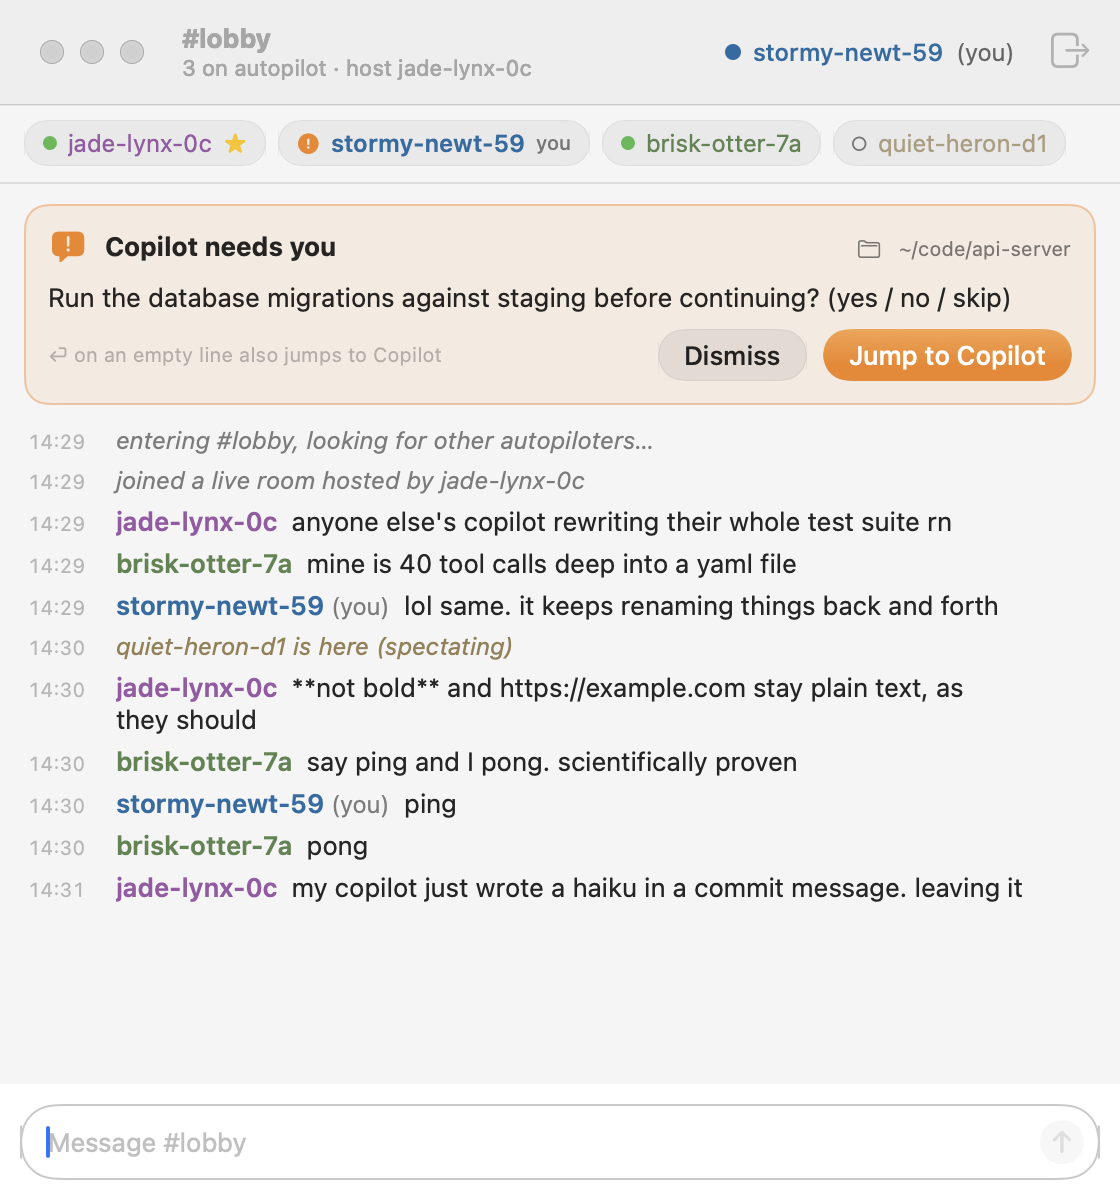
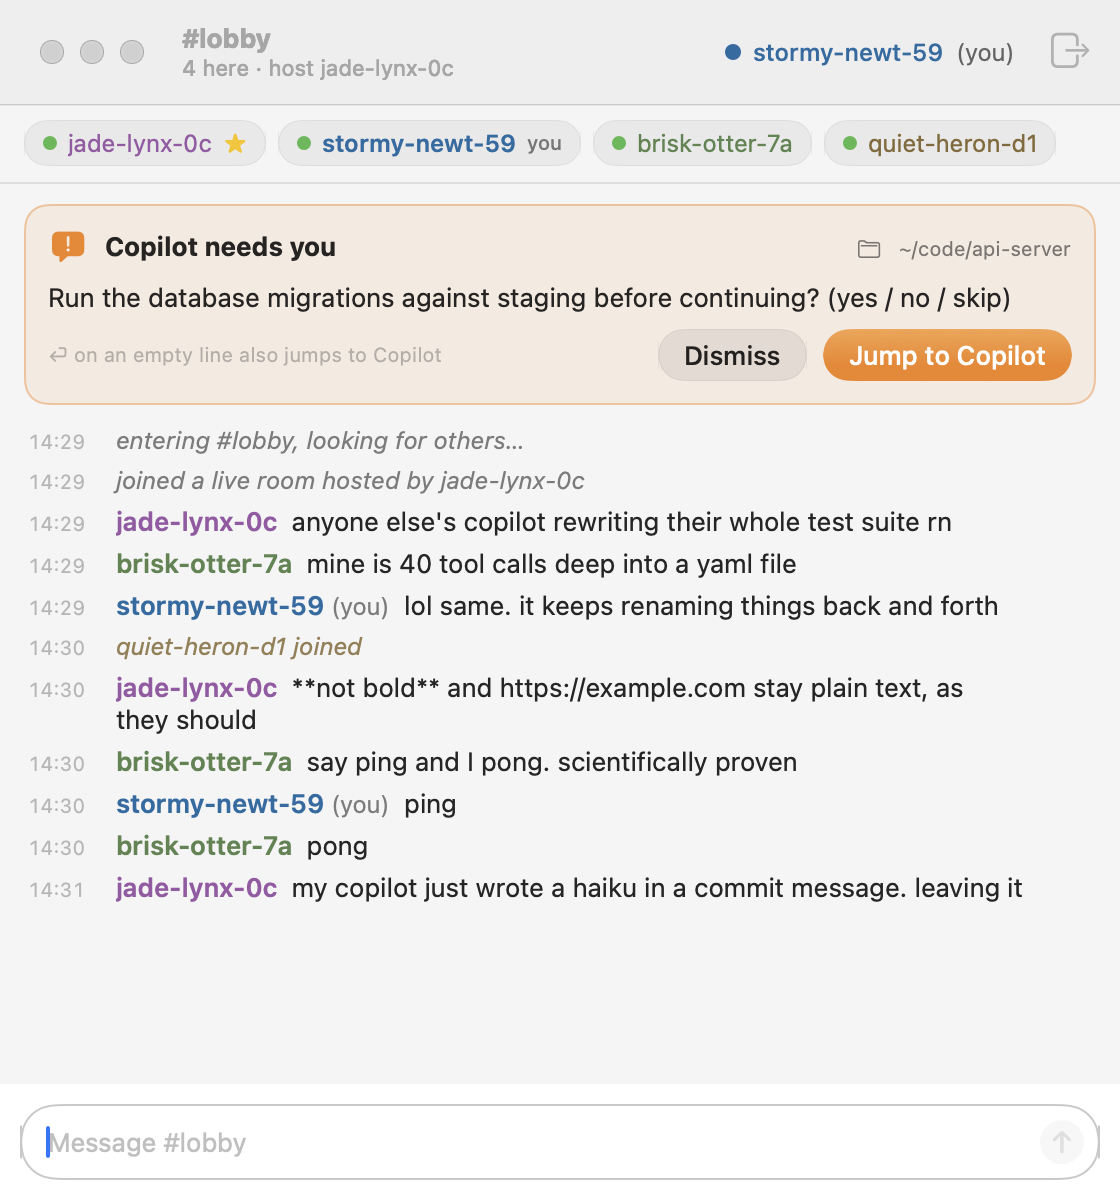
Docs: the menu bar app is always on
README's app section and macos/README.md: the icon's three states and the
badge, Join the Lounge, Leave Room / Join Room, the lounge-off view, the
attention-only panel, opening at login, the mock daemon and the renders.
New screenshots, rendered from the fixtures; the autopilot and countdown
ones go.

Closes #120

diff --git a/macos/README.md b/macos/README.md
@@ -1,34 +1,32 @@
 # AutoChat.app
 
-A native macOS menu bar app for autochat. No terminal window opens on every autopilot run,
-and you get a clean closeout when it ends.
+A native macOS menu bar app for autochat. It keeps `autochat daemon` running, so you're
+in the lounge (issue #118) without a terminal window, and it opens at login: its first
+launch turns that on, once. Turn it off in the menu and it stays off.
 
-- The **status item** (💬 in the menu bar) shows autochat's state: outline in the lounge,
-  filled while you're on autopilot, and the seconds left during the exit countdown. A
-  **badge** counts the agents blocked on you (from an older CLI without the attention
-  queue, a `!` bubble when Copilot needs you). **Left-click** opens the chat.
+- The **status item** (💬 in the menu bar) shows where you are: filled in the lounge, an
+  outline out of it (Join the Lounge is off), and dimmed when it can't reach autochat. A
+  **badge** counts the agents blocked on you. **Left-click** opens the chat.
   **Right-click** (or ⌥-click) opens the menu: Open Chat, the current room, your agents'
-  attention items (choose one to jump to it), Join Now, Pause autochat, Launch at Login,
-  Set autochat Location…, and Quit.
-- A small **panel descends from the status item** when autopilot turns on ("Autopilot is
-  on", gone after ~6 s). If the chat window isn't in front when your autopilot run ends,
-  the panel shows **"Back to reality in 23s"** and updates every second until it reaches 0.
-  It has Return Now and Open Chat buttons. The panel never takes focus.
-- The **attention queue** (issue #37): presence is separate from attention. Each agent
+  attention items (choose one to jump to it), **Join the Lounge** (a checkmark: it sends
+  `{"cmd":"lounge","on":…}`, the same as `autochat config lounge on|off`), Launch at
+  Login, Set autochat Location…, and Quit.
+- The **attention queue** (issue #37): the lounge is separate from attention. Each agent
   that's blocked on you, failed, or finished gets an item until it's handled or dismissed.
-  When an agent is blocked on you, the panel comes down with the whole queue, blocked
-  first, each with **Jump to** (focus that agent's terminal) and **×** (dismiss). Finished
+  When an agent is blocked on you, a small **panel descends from the status item** with
+  the whole queue, blocked first, each with **Jump to** (focus that agent's terminal) and
+  **×** (dismiss). It's the only thing the panel shows, and it never takes focus. Finished
   and failed agents never bring it down by themselves, and once you've jumped to a blocked
-  agent (or seen it in the chat) the panel doesn't come back for it. When the last of
-  several agents stops, the countdown panel lists the queue: autochat doesn't pick one to
-  focus, you do.
+  agent (or seen it in the chat) the panel doesn't come back for it.
 - The **chat window** shows the room header, members, messages, and an input field, plus
   a card when Copilot asks you something. A one-line **attention strip** under the members
-  (and at the top of the lounge) shows the next item with Jump to and ×; **+N** expands it
-  to the whole queue. It never covers the chat. During the 30 s exit countdown the window shows a slim,
-  **non-blocking** strip above the input, so you can keep typing. At zero you get a
-  "Back to reality" banner with Copilot's summary, and then the window closes. Closing
-  the window only hides it.
+  shows the next item with Jump to and ×; **+N** expands it to the whole queue. It never
+  covers the chat. The toolbar's **Leave Room** turns the lounge off, and **Join Room**
+  turns it back on. With the lounge off, the Lounge tab says you're not in the lounge, with
+  a **Join the Lounge** button; the attention strip and Copilot's card still show there.
+  Closing the window only hides it. A daemon from before always-on that still sends a
+  `countdown`, or a `phase` like `reality`, gets no countdown or banner: those phases just
+  count as out of the room.
 - Once the daemon hosts a **local agent room** (issues #20 and #21; the lounge snapshot's
   `agents` isn't null, which a P1 daemon guarantees even before any agent connects, #65),
   the window gets a **Lounge | 🔒 Agents** switch, and the menu shows
@@ -74,7 +72,7 @@ and you get a clean closeout when it ends.
   agents stream is only subscribed while the window is open.
 
 The app is a thin client. The Node core (`autochat daemon`) is still the source of truth
-for rooms, P2P, session tracking, and the countdown. The app talks to it over the local
+for rooms, P2P, session tracking, and the attention queue. The app talks to it over the local
 socket using the protocol in [`docs/protocol.md`](../docs/protocol.md) (issue #2).
 
 ## Requirements
@@ -96,8 +94,8 @@ bundle id `com.bnookala.autochat`), renders the icon, and signs the bundle with
 `codesign -s -`. Because it's ad-hoc signed, the first launch of a copied build may need
 right-click → Open.
 
-After installing, run `autochat setup`. It finds `AutoChat.app` in `/Applications` or
-`~/Applications` and sets `launch` to `app`, so hooks wake the app instead of a terminal.
+After installing, open it once: from then on it opens at login. `autochat setup` installs
+the hooks that feed the attention queue (and suggests the app when it isn't installed).
 CI (`.github/workflows/ci.yml`) builds the same bundle and uploads it zipped as the
 `AutoChat.app` workflow artifact.
 
@@ -126,19 +124,20 @@ fall back to their old `LOLCHAT_*` names.
 ## Mock daemon
 
 `dev/mock-daemon.mjs` is a Node script with no dependencies. It speaks the same protocol
-on the same socket path, so you can work on the app without P2P or Copilot. It plays a
-scripted scenario: lounge → room with members and messages → a Copilot request → a 30 s
-countdown → the reality banner → lounge. It answers `say` (say "ping" and a bot replies
-"pong"), `returnNow`, `leaveRoom`, `jumpToCopilot`, `dismissRequest`, `joinNow`, `jumpTo`,
-and `dismissAttention`, and its snapshots carry the attention queue like the daemon's.
+on the same socket path, so you can work on the app without P2P or Copilot. Like the core,
+it's in the room from the start. It plays a scripted scenario: members join and chat → a
+Copilot request → answered → the run finishes (an attention item). It answers `say` (say
+"ping" and a bot replies "pong"), `lounge` (out of the room and back, at once), `leaveRoom`
+(the lounge off), `jumpToCopilot`, `dismissRequest`, `jumpTo`, and `dismissAttention`, and
+its snapshots carry `lounge` and the attention queue like the daemon's. `--scenario lounge`
+starts with the lounge off.
 
 `--scenario attention` runs four agents over three harnesses at once: Codex finishes,
 Claude Code and Copilot get blocked on you (Copilot's with the request card), and another
 Claude Code session fails. **Jump to** a blocked one and it carries on two seconds later,
-then finishes. When the last one stops, the countdown panel lists the queue, and at zero
-nothing takes focus.
+then finishes.
 
-`--scenario agents` plays the local agent room instead (and stays in the lounge): three
+`--scenario agents` plays the local agent room instead (with the lounge off): three
 agents over two harnesses, one of which leaves; an overlap; a thread that's opened,
 discussed, and resolved with its decision; main-stream notes and sys lines; and a second
 thread that stays open. It serves the agents stream (`subscribe` with
@@ -165,10 +164,10 @@ node macos/dev/mock-daemon.mjs --scenario full --loop
 AUTOCHAT_HOME=$PWD/.dev-home macos/.build/debug/AutoChat
 ```
 
-Options: `--scenario full|lounge|room|request|countdown|agents|agents-p1|attention`, `--countdown <s>`,
+Options: `--scenario full|lounge|room|request|agents|agents-p1|attention`,
 `--speed <x>`, `--loop`, `--ack`, `--sock <path>`, `--quiet`. The mock also accepts a
-leading `daemon` argument and reads `AUTOCHAT_MOCK_SCENARIO`, `AUTOCHAT_MOCK_COUNTDOWN`,
-`AUTOCHAT_MOCK_SPEED`, and `AUTOCHAT_MOCK_ACK`. That means the app can spawn it like the real CLI, which is a good
+leading `daemon` argument and reads `AUTOCHAT_MOCK_SCENARIO`, `AUTOCHAT_MOCK_SPEED`, and
+`AUTOCHAT_MOCK_ACK`. That means the app can spawn it like the real CLI, which is a good
 way to test the spawn and Quit path:
 
 ```sh
@@ -177,20 +176,19 @@ AUTOCHAT_HOME=$PWD/.dev-home AUTOCHAT_BIN=$PWD/macos/dev/mock-daemon.mjs macos/.
 
 The Swift tests use an in-process mock server, and also start this script (when `node` is
 on `PATH`) to test spawn → subscribe → `say` → SIGTERM, attach-without-signalling, crash
-restart, and the agents scenarios (including the acknowledgement gate, and P1's presence,
-names, idle sessions and Connect agents).
+restart, Join the Lounge off and on, and the agents scenarios (including the acknowledgement
+gate, and P1's presence, names, idle sessions and Connect agents).
 
 ### Against the real daemon
 
 `Tests/AutoChatCoreTests/RealDaemonE2ETests.swift` is skipped unless `AUTOCHAT_E2E_HOME`
-is set. To run it, start a real daemon with an isolated home and a private room, then run
-the test:
+is set. To run it, start a real daemon with an isolated home and a private room (it joins
+its room at start), then run the test:
 
 ```sh
 E2E=$PWD/.e2e   # keep it short: socket paths are limited to 104 bytes
 AUTOCHAT_HOME=$E2E autochat host
-AUTOCHAT_HOME=$E2E COPILOT_HOME=$E2E/copilot AUTOCHAT_NO_NOTIFY=1 AUTOCHAT_NO_FOCUS=1 \
-  AUTOCHAT_COUNTDOWN_MS=8000 autochat daemon &
+AUTOCHAT_HOME=$E2E COPILOT_HOME=$E2E/copilot AUTOCHAT_NO_NOTIFY=1 AUTOCHAT_NO_FOCUS=1 autochat daemon &
 cd macos && AUTOCHAT_E2E_HOME=$E2E swift test --filter RealDaemon
 ```
 
@@ -200,27 +198,28 @@ cd macos && AUTOCHAT_E2E_HOME=$E2E swift test --filter RealDaemon
 .build/debug/AutoChat --render-snapshots <dir>
 ```
 
-This renders the descending panel (autopilot, countdown, request), the chat window
-(countdown, Copilot request, closeout, and the Lounge tab with the Agents switch), the
-Agents tab (`agents-board`, `agents-thread`, `agents-intervene`, the acknowledgement
+This renders the status item in each state with its badge (`status-item-states`), the
+chat window's Lounge tab (`chat-window-room`, with Copilot's request `chat-window-request`,
+with the lounge off `chat-window-lounge-off`, and with the Agents switch `chat-window-tabs`),
+the Agents tab (`agents-board`, `agents-thread`, `agents-intervene`, the acknowledgement
 sheet `agents-ack`, and P1's `agents-presence`, `agents-names`, `agents-idle`,
 `agents-idle-expanded`, `agents-connect`, and the Connect agents… sheet `agents-connect-sheet`
-and `agents-connect-result`), and the attention queue (`status-item-badge`, `status-panel-attention`,
-`status-panel-countdown-queue`, `chat-window-attention`, `chat-window-attention-expanded`,
-`chat-window-lounge-attention`) from fixture snapshots to PNGs, in light and dark (`-dark`)
-variants.
+and `agents-connect-result`), and the attention queue (`status-panel-attention`,
+`chat-window-attention`, `chat-window-attention-expanded`, `chat-window-lounge-attention`)
+from fixture snapshots to PNGs, in light and dark (`-dark`) variants.
 It draws offscreen windows with AppKit's bitmap caching, so it doesn't need Screen
 Recording permission.
 
-To check the Agents tab against a running daemon (the mock or a real one) without UI
-scripting:
+To check the Lounge and Agents tabs against a running daemon (the mock or a real one)
+without UI scripting:
 
 ```sh
 AUTOCHAT_HOME=$PWD/.dev-home .build/debug/AutoChat --render-live <dir> [--say "text"]
 ```
 
-It attaches to the daemon at `$AUTOCHAT_HOME` (it never spawns one), opens the Agents tab
-offscreen, prints what it sees, and writes `live-agents-board.png`. With `--say`, it then
+It attaches to the daemon at `$AUTOCHAT_HOME` (it never spawns one), renders the Lounge tab
+as the daemon has it (`live-lounge.png` and `-dark`: the room, or the lounge off), then
+opens the Agents tab offscreen, prints what it sees, and writes `live-agents-board.png`. With `--say`, it then
 clicks through Intervene… → the acknowledgement sheet → send (the same model calls the
 buttons make) and writes `live-agents-ack.png` and `live-agents-intervene.png`. Point it
 at a throwaway `AUTOCHAT_HOME`: `--say` really posts to that room.

diff --git a/README.md b/README.md
@@ -73,7 +73,7 @@ Then `npm rm -g lolchat`.
 
 New Copilot CLI sessions pick up the hooks. Then keep autochat running, and you're in the lounge:
 
-- **on macOS, the AutoChat menu bar app:** it runs `autochat daemon` for you (turn on **Launch at Login** in its menu).
+- **on macOS, the AutoChat menu bar app:** it runs `autochat daemon` for you, and opens at login.
 - **anywhere, in a terminal:** `autochat`, say in a side pane. It shows the room while it runs; ctrl-c quits.
 
 `autochat config lounge off` keeps autochat running without the lounge (the agent room and the attention
@@ -98,36 +98,37 @@ they run headless (`opencode run`).
 
 ## macOS menu bar app
 
-On macOS, **AutoChat.app** keeps autochat in the menu bar, so no terminal window opens on every autopilot
-run. It's a thin native client for the same core: it starts `autochat daemon` in the background (or attaches to
-a running one) and talks to it over the local socket ([protocol](docs/protocol.md)).
+On macOS, **AutoChat.app** keeps autochat in the menu bar, so you're in the lounge without a terminal window.
+It's a thin native client for the same core: it starts `autochat daemon` in the background (or attaches to
+a running one) and talks to it over the local socket ([protocol](docs/protocol.md)). From its first launch it
+opens at login; turn that off in its menu and it stays off.
 
 <p>
-  <img src="docs/screenshots/status-panel-autopilot.png" width="49%" alt="The status panel under the menu bar icon: Autopilot is on, 3 on autopilot in #lobby">
-  <img src="docs/screenshots/status-panel-countdown.png" width="49%" alt="The status panel after the run: Back to reality in 23s, with Open Chat and Return Now">
+  <img src="docs/screenshots/status-item-states.png" alt="The menu bar icon: filled in the lounge, an outline out of it, dimmed when not connected, and a badge for agents blocked on you">
 </p>
 
-- **The drop-down status panel.** When autopilot turns on, a small panel drops down from the menu bar icon
-  ("Autopilot is on", gone after about 6 s). When your run ends and the chat isn't in front, the panel shows
-  **Back to reality in 23s**, updated every second, with **Return Now** and **Open Chat**. It never takes focus,
-  so it doesn't steal your typing. The icon fills while you're on autopilot, shows `!` when Copilot needs you,
-  and shows the seconds left during the countdown.
-- **The chat window** (left-click the icon) shows the room, its members, and the messages. When Copilot asks you
-  something, a card at the top has **Jump to Copilot**. Right-click the icon for the menu: Join Now, Pause,
-  Launch at Login, and Quit.
-- **Several agents at once? The attention queue.** Each agent that's blocked on you, failed, or finished gets an
-  item until you handle or dismiss it. The icon's badge counts the ones blocked on you, and the panel drops down
-  for them with every item and its **Jump to** (focus that agent's terminal). A one-line strip in the chat shows the
-  queue too. Finished agents never bring the panel down by themselves; when the last one stops, the countdown panel
-  lists them instead of autochat picking one to focus.
-- **The 30-second countdown doesn't block you.** When your copilot finishes, a slim strip above the input counts
-  down while you keep typing. Nothing covers the chat. **Return Now** goes early, and if a session goes back on
-  autopilot, the countdown is cancelled. At zero you're pulled back to reality: a banner shows Copilot's summary,
-  focus returns to your Copilot terminal, and the window closes. Change the length with
-  `autochat config countdown <seconds>`.
+- **The menu bar icon** is filled while you're in the lounge, an outline when you're not, and dimmed when it
+  can't reach autochat. A badge counts the agents blocked on you.
+- **The chat window** (left-click the icon) shows the lounge: its members and the messages. When Copilot asks you
+  something, a card at the top has **Jump to Copilot**. **Leave Room** in the toolbar turns the lounge off, and
+  **Join Room** turns it back on. Right-click the icon for the menu: **Join the Lounge** (the same switch, with a
+  checkmark), Launch at Login, and Quit.
+- **The lounge off?** The window says you're not in the lounge, with a **Join the Lounge** button. Everything else
+  carries on: the attention queue, notifications, and the agent room.
 
 <p>
-  <img src="docs/screenshots/chat-window-countdown.png" width="49%" alt="The chat window during the countdown: a Back to reality in 23s strip above the input while you keep typing">
+  <img src="docs/screenshots/chat-window-room.png" width="49%" alt="The chat window in the lounge: 4 here, the members and messages, and Leave Room in the toolbar">
+  <img src="docs/screenshots/chat-window-lounge-off.png" width="49%" alt="The chat window with the lounge off: You're not in the lounge, and a Join the Lounge button">
+</p>
+
+- **Several agents at once? The attention queue.** Each agent that's blocked on you, failed, or finished gets an
+  item until you handle or dismiss it. The icon's badge counts the ones blocked on you, and a small panel drops
+  down from the icon for them, with every item and its **Jump to** (focus that agent's terminal). It never takes
+  focus, so it doesn't steal your typing. A one-line strip in the chat shows the queue too. Finished and failed
+  agents never bring the panel down by themselves.
+
+<p>
+  <img src="docs/screenshots/status-panel-attention.png" width="49%" alt="The panel under the menu bar icon: 2 agents need you, each with Jump to">
   <img src="docs/screenshots/chat-window-request.png" width="49%" alt="The chat window with a Copilot needs you card, Dismiss and Jump to Copilot">
 </p>
 
@@ -138,7 +139,7 @@ You need macOS 14 or later, Xcode 16 or later (Swift 6), and the CLI from [Insta
 ```sh
 git clone https://github.com/bnookala/autochat && cd autochat
 macos/scripts/build-app.sh --install   # build, ad-hoc sign, and copy to ~/Applications/AutoChat.app
-open ~/Applications/AutoChat.app       # then turn on Launch at Login in its menu
+open ~/Applications/AutoChat.app       # it opens at login from then on
 ```
 
 Without the app, `autochat setup` prints these steps.
